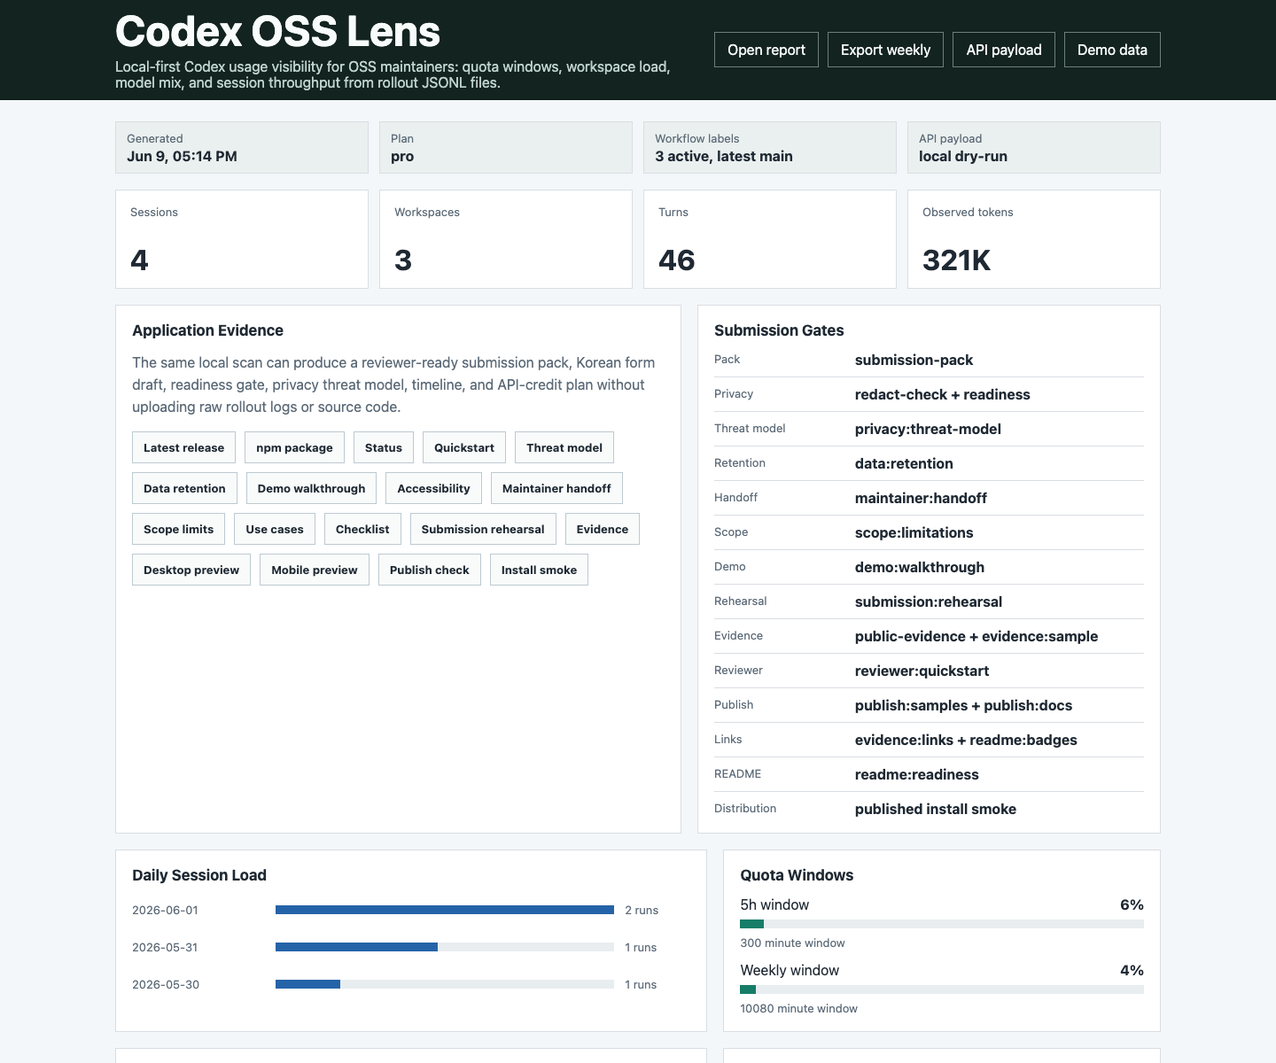
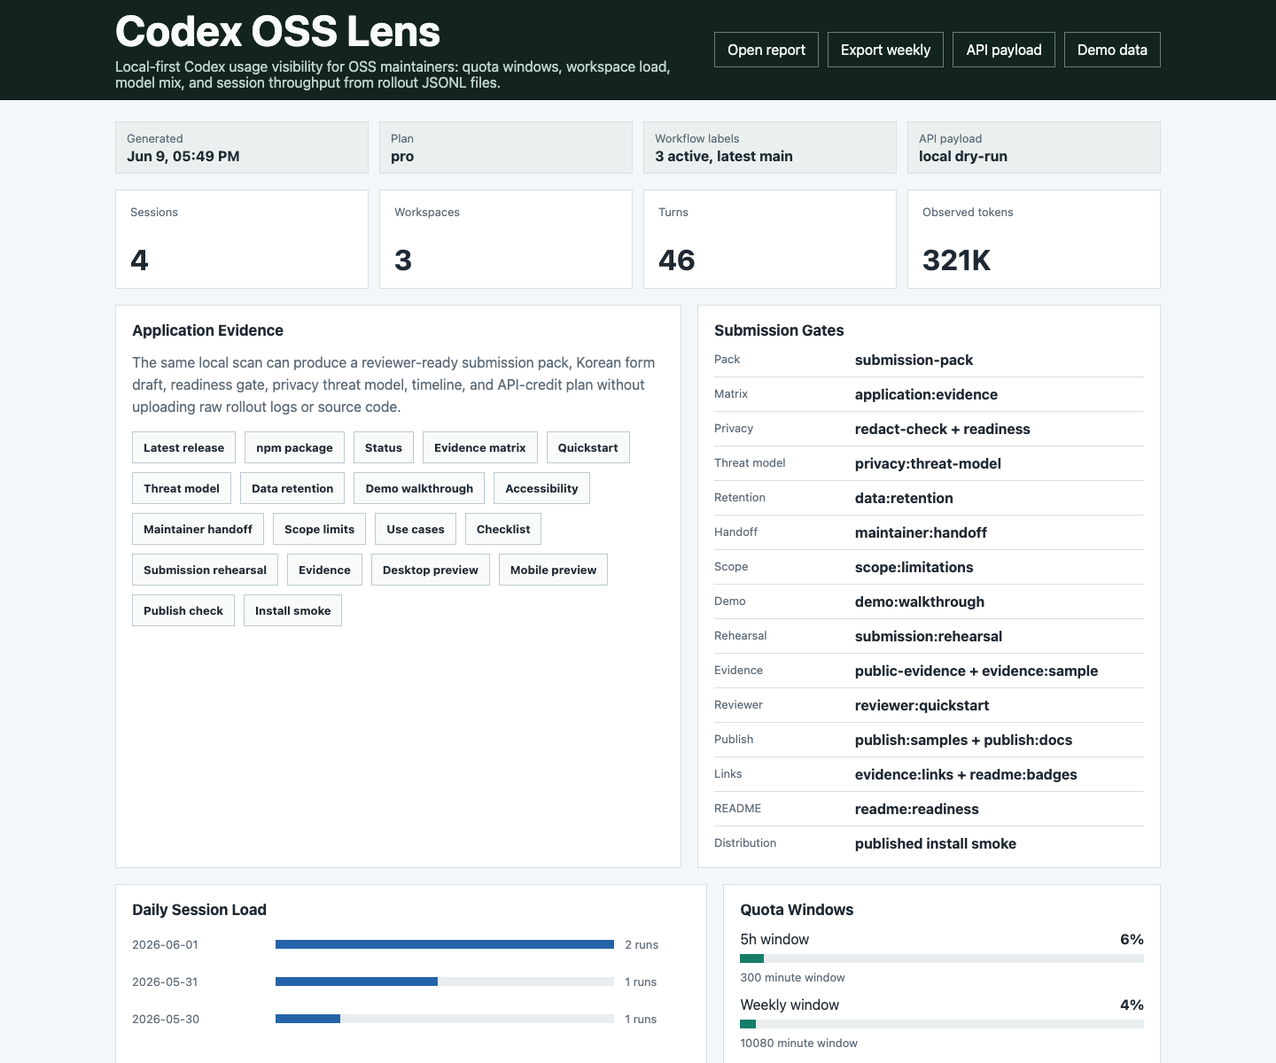
Make application evidence reviewable
Reviewers can inspect individual readiness pages, but the application still benefits from one crosswalk that maps likely reviewer questions to public proof, local gates, and known boundaries. This change adds that evidence matrix and makes it first-class generated evidence, dashboard navigation, and CI-gated application material.

Constraint: The project should present reviewer evidence without overstating adoption or hiding manual account-owner boundaries.
Constraint: Local 1Password SSH signing agent remains unreliable, so this automation commit is unsigned.
Rejected: Keep the crosswalk only in application-status.md | a dedicated matrix is easier to cite and keeps status rows from becoming the full application narrative.
Confidence: high
Scope-risk: moderate
Directive: Keep docs/application-evidence-matrix.md, public evidence links, dashboard evidence links, and application:evidence aligned whenever reviewer-facing claims or submission gates change.
Tested: npm run application:evidence && npm run dashboard:readiness && npm run evidence:sample && npm run form-draft:sample && npm run final-copy:check && npm run application:status && npm run reviewer:quickstart && npm run publish:docs && npm run readme:readiness && npm run ci:readiness && npm test && git diff --check
[…]

diff --git a/src/cli.js b/src/cli.js
@@ -180,6 +180,7 @@ async function main() {
         npmPackage: options.npmPackage,
         roadmapUrl: options.roadmapUrl,
         applicationStatusUrl: options.applicationStatusUrl,
+        applicationEvidenceMatrixUrl: options.applicationEvidenceMatrixUrl,
         reviewerQuickstartUrl: options.reviewerQuickstartUrl,
         releaseProvenanceUrl: options.releaseProvenanceUrl,
         adoptionPlanUrl: options.adoptionPlanUrl,
@@ -278,6 +279,7 @@ function parseArgs(args) {
     else if (arg === "--release-url") options.releaseUrl = args[++i];
     else if (arg === "--roadmap-url") options.roadmapUrl = args[++i];
     else if (arg === "--application-status-url") options.applicationStatusUrl = args[++i];
+    else if (arg === "--application-evidence-matrix-url") options.applicationEvidenceMatrixUrl = args[++i];
     else if (arg === "--reviewer-quickstart-url") options.reviewerQuickstartUrl = args[++i];
     else if (arg === "--release-provenance-url") options.releaseProvenanceUrl = args[++i];
     else if (arg === "--adoption-plan-url") options.adoptionPlanUrl = args[++i];
@@ -397,11 +399,11 @@ Usage:
   codex-oss-lens scorecard --manifest manifest.json [--readiness readiness.json] [--api-plan api-plan.json] [--timeline timeline.json] [--out scorecard.json] [--markdown scorecard.md]
   codex-oss-lens evidence-index --manifest manifest.json [--readiness readiness.json] [--api-plan api-plan.json] [--timeline timeline.json] [--scorecard scorecard.json] [--form-draft form-draft.json] [--out evidence-index.json] [--markdown evidence-index.md] [--html evidence-index.html]
   codex-oss-lens submission-pack [--codex-home ~/.codex] [--repo owner/name] [--out-dir codex-submission-pack] [--demo]
-  codex-oss-lens form-draft --manifest manifest.json [--readiness readiness.json] [--api-plan api-plan.json] [--scorecard scorecard.json] [--repo url] [--release-url url] [--npm-package url] [--roadmap-url url] [--application-status-url url] [--reviewer-quickstart-url url] [--release-provenance-url url] [--adoption-plan-url url] [--maintenance-policy-url url] [--maintainer-handoff-url url] [--scope-limitations-url url] [--privacy-threat-model-url url] [--data-retention-url url] [--demo-walkthrough-url url] [--accessibility-url url] [--api-workflow-url url] [--use-cases-url url] [--final-checklist-url url] [--submission-rehearsal-url url] [--final-copy-url url] [--form-draft-sample-url url] [--public-evidence-sample-url url] [--dashboard-preview-url url] [--mobile-dashboard-preview-url url] [--publish-check-sample-url url] [--install-smoke-sample-url url] [--node-ci-url url] [--published-smoke-url url] [--out form-draft.json] [--markdown form-draft.md]
+  codex-oss-lens form-draft --manifest manifest.json [--readiness readiness.json] [--api-plan api-plan.json] [--scorecard scorecard.json] [--repo url] [--release-url url] [--npm-package url] [--roadmap-url url] [--application-status-url url] [--application-evidence-matrix-url url] [--reviewer-quickstart-url url] [--release-provenance-url url] [--adoption-plan-url url] [--maintenance-policy-url url] [--maintainer-handoff-url url] [--scope-limitations-url url] [--privacy-threat-model-url url] [--data-retention-url url] [--demo-walkthrough-url url] [--accessibility-url url] [--api-workflow-url url] [--use-cases-url url] [--final-checklist-url url] [--submission-rehearsal-url url] [--final-copy-url url] [--form-draft-sample-url url] [--public-evidence-sample-url url] [--dashboard-preview-url url] [--mobile-dashboard-preview-url url] [--publish-check-sample-url url] [--install-smoke-sample-url url] [--node-ci-url url] [--published-smoke-url url] [--out form-draft.json] [--markdown form-draft.md]
   codex-oss-lens pack-validate <submission-pack-dir> [--min-score 75] [--out pack-validation.json] [--markdown pack-validation.md]
   codex-oss-lens publish-check [--package-json package.json] [--out publish-check.json] [--markdown publish-check.md]
   codex-oss-lens install-smoke [--package codex-oss-lens] [--version latest] [--bin codex-oss-lens] [--out install-smoke.json] [--markdown install-smoke.md]
-  codex-oss-lens public-evidence [--repo url] [--release-url url] [--npm-package url] [--roadmap-url url] [--application-status-url url] [--reviewer-quickstart-url url] [--release-provenance-url url] [--adoption-plan-url url] [--maintenance-policy-url url] [--maintainer-handoff-url url] [--scope-limitations-url url] [--privacy-threat-model-url url] [--data-retention-url url] [--demo-walkthrough-url url] [--accessibility-url url] [--api-workflow-url url] [--use-cases-url url] [--final-checklist-url url] [--submission-rehearsal-url url] [--final-copy-url url] [--form-draft-sample-url url] [--public-evidence-sample-url url] [--dashboard-preview-url url] [--mobile-dashboard-preview-url url] [--publish-check-sample-url url] [--install-smoke-sample-url url] [--node-ci-url url] [--published-smoke-url url] [--out public-evidence.json] [--markdown public-evidence.md]
+  codex-oss-lens public-evidence [--repo url] [--release-url url] [--npm-package url] [--roadmap-url url] [--application-status-url url] [--application-evidence-matrix-url url] [--reviewer-quickstart-url url] [--release-provenance-url url] [--adoption-plan-url url] [--maintenance-policy-url url] [--maintainer-handoff-url url] [--scope-limitations-url url] [--privacy-threat-model-url url] [--data-retention-url url] [--demo-walkthrough-url url] [--accessibility-url url] [--api-workflow-url url] [--use-cases-url url] [--final-checklist-url url] [--submission-rehearsal-url url] [--final-copy-url url] [--form-draft-sample-url url] [--public-evidence-sample-url url] [--dashboard-preview-url url] [--mobile-dashboard-preview-url url] [--publish-check-sample-url url] [--install-smoke-sample-url url] [--node-ci-url url] [--published-smoke-url url] [--out public-evidence.json] [--markdown public-evidence.md]
   codex-oss-lens serve [--codex-home ~/.codex] [--port 5057] [--demo]
   codex-oss-lens demo [--out report.json]
 

diff --git a/scripts/check-application-evidence-matrix.js b/scripts/check-application-evidence-matrix.js
@@ -1,0 +1,54 @@
+#!/usr/bin/env node
+import { promises as fs } from "node:fs";
+
+const files = {
+  matrix: await fs.readFile("docs/application-evidence-matrix.md", "utf8"),
+  status: await fs.readFile("docs/application-status.md", "utf8"),
+  reviewer: await fs.readFile("docs/reviewer-quickstart.md", "utf8"),
+  checklist: await fs.readFile("docs/final-submission-checklist.md", "utf8"),
+  readme: await fs.readFile("README.md", "utf8"),
+  dashboard: await fs.readFile("public/index.html", "utf8"),
+  workflow: await fs.readFile(".github/workflows/test.yml", "utf8"),
+  publishing: await fs.readFile("docs/npm-publishing.md", "utf8"),
+  publishChecklist: await fs.readFile("application/publish-checklist.md", "utf8"),
+};
+let failures = 0;
+
+requireText("matrix", "# Application Evidence Matrix", "title");
+requireText("matrix", "Is the project public and installable?", "installable question");
+requireText("matrix", "Is the tool relevant to Codex users?", "Codex relevance question");
+requireText("matrix", "Is private Codex data protected?", "privacy question");
+requireText("matrix", "Can reviewers reproduce the evidence?", "reproducibility question");
+requireText("matrix", "Is the project maintainable after submission?", "maintainability question");
+requireText("matrix", "Are limits and manual gates clear?", "manual-gate question");
+requireText("matrix", "npm run application:evidence", "self gate command");
+requireText("matrix", "codex-oss-lens@latest", "source-vs-published boundary");
+requireText("status", "Application evidence matrix | Ready", "application status row");
+requireText("status", "npm run application:evidence", "application status command");
+requireText("reviewer", "docs/application-evidence-matrix.md", "reviewer matrix link");
+requireText("checklist", "docs/application-evidence-matrix.md", "final checklist matrix link");
+requireText("checklist", "npm run application:evidence", "final checklist gate");
+requireText("readme", "docs/application-evidence-matrix.md", "README matrix link");
+requireText("readme", "npm run application:evidence", "README matrix gate");
+requireText("dashboard", "docs/application-evidence-matrix.md", "dashboard matrix link");
+requireText("dashboard", "Evidence matrix", "dashboard matrix label");
+requireText("dashboard", "application:evidence", "dashboard matrix gate");
+requireText("workflow", "npm run application:evidence", "CI matrix gate");
+requireText("publishing", "npm run application:evidence", "publishing docs matrix gate");
+requireText("publishChecklist", "application:evidence", "publish checklist matrix gate");
+
+if (failures) {
+  console.error(`Application evidence matrix check failed for ${failures} requirement(s).`);
+  process.exit(1);
+}
+
+console.log("pass applicationEvidenceMatrix");
+
+function requireText(fileKey, needle, label) {
+  if (files[fileKey].includes(needle)) {
+    console.log(`pass ${label}`);
+    return;
+  }
+  console.error(`fail missing ${label}: ${needle}`);
+  failures += 1;
+}

diff --git a/test/public-evidence.test.js b/test/public-evidence.test.js
@@ -13,6 +13,7 @@ test("builds public evidence with required links and manual fields", () => {
   assert.equal(evidence.publicLinks.repo, "https://github.com/dbunk903/codex-oss-lens");
   assert.equal(evidence.publicLinks.npmPackage, "https://www.npmjs.com/package/codex-oss-lens");
   assert.match(evidence.publicLinks.applicationStatusUrl, /docs\/application-status\.md$/);
+  assert.match(evidence.publicLinks.applicationEvidenceMatrixUrl, /docs\/application-evidence-matrix\.md$/);
   assert.match(evidence.publicLinks.reviewerQuickstartUrl, /docs\/reviewer-quickstart\.md$/);
   assert.match(evidence.publicLinks.releaseProvenanceUrl, /docs\/release-provenance\.md$/);
   assert.match(evidence.publicLinks.adoptionPlanUrl, /docs\/adoption-plan\.md$/);
@@ -26,6 +27,7 @@ test("builds public evidence with required links and manual fields", () => {
   assert.match(evidence.publicLinks.accessibilityUrl, /docs\/accessibility\.md$/);
   assert.ok(evidence.proofPoints.some((item) => item.id === "publishedSmoke"));
   assert.ok(evidence.proofPoints.some((item) => item.id === "applicationStatus"));
+  assert.ok(evidence.proofPoints.some((item) => item.id === "applicationEvidenceMatrix"));
   assert.ok(evidence.proofPoints.some((item) => item.id === "reviewerQuickstart"));
   assert.ok(evidence.proofPoints.some((item) => item.id === "releaseProvenance"));
   assert.ok(evidence.proofPoints.some((item) => item.id === "adoptionPlan"));
@@ -77,6 +79,8 @@ test("CLI accepts reviewer link overrides for public evidence", async () => {
     "https://github.com/example/project/blob/main/ROADMAP.md",
     "--application-status-url",
     "https://github.com/example/project/blob/main/docs/application-status.md",
+    "--application-evidence-matrix-url",
+    "https://github.com/example/project/blob/main/docs/application-evidence-matrix.md",
     "--reviewer-quickstart-url",
     "https://github.com/example/project/blob/main/docs/reviewer-quickstart.md",
     "--release-provenance-url",
@@ -129,6 +133,7 @@ test("CLI accepts reviewer link overrides for public evidence", async () => {
   assert.equal(evidence.publicLinks.repo, "https://github.com/example/project");
   assert.equal(evidence.publicLinks.releaseUrl, "https://github.com/example/project/releases/tag/v1.2.3");
   assert.equal(evidence.publicLinks.applicationStatusUrl, "https://github.com/example/project/blob/main/docs/application-status.md");
+  assert.equal(evidence.publicLinks.applicationEvidenceMatrixUrl, "https://github.com/example/project/blob/main/docs/application-evidence-matrix.md");
   assert.equal(evidence.publicLinks.reviewerQuickstartUrl, "https://github.com/example/project/blob/main/docs/reviewer-quickstart.md");
   assert.equal(evidence.publicLinks.releaseProvenanceUrl, "https://github.com/example/project/blob/main/docs/release-provenance.md");
   assert.equal(evidence.publicLinks.adoptionPlanUrl, "https://github.com/example/project/blob/main/docs/adoption-plan.md");

diff --git a/src/public-evidence.js b/src/public-evidence.js
@@ -4,6 +4,7 @@ const DEFAULTS = {
   npmPackage: "https://www.npmjs.com/package/codex-oss-lens",
   roadmapUrl: "https://github.com/dbunk903/codex-oss-lens/blob/main/ROADMAP.md",
   applicationStatusUrl: "https://github.com/dbunk903/codex-oss-lens/blob/main/docs/application-status.md",
+  applicationEvidenceMatrixUrl: "https://github.com/dbunk903/codex-oss-lens/blob/main/docs/application-evidence-matrix.md",
   reviewerQuickstartUrl: "https://github.com/dbunk903/codex-oss-lens/blob/main/docs/reviewer-quickstart.md",
   releaseProvenanceUrl: "https://github.com/dbunk903/codex-oss-lens/blob/main/docs/release-provenance.md",
   adoptionPlanUrl: "https://github.com/dbunk903/codex-oss-lens/blob/main/docs/adoption-plan.md",
@@ -52,6 +53,7 @@ export function buildPublicEvidence(options = {}) {
       proof("publishedSmoke", "npm latest install smoke runs in GitHub Actions.", links.publishedSmokeUrl),
       proof("roadmap", "Roadmap documents future maintainer workflow work.", links.roadmapUrl),
       proof("applicationStatus", "Application status captures ready, source-only, and manual submit gates.", links.applicationStatusUrl),
+      proof("applicationEvidenceMatrix", "Application evidence matrix maps reviewer questions to public proof and local gates.", links.applicationEvidenceMatrixUrl),
       proof("reviewerQuickstart", "Reviewer quickstart gives public-only verification steps.", links.reviewerQuickstartUrl),
       proof("releaseProvenance", "Release provenance ties GitHub release, npm package, CI, and privacy gates together.", links.releaseProvenanceUrl),
       proof("adoptionPlan", "Adoption plan documents public validation without asking for private Codex content.", links.adoptionPlanUrl),
@@ -92,6 +94,7 @@ function compactLinks(options) {
     ...(options.npmPackage ? { npmPackage: options.npmPackage } : {}),
     ...(options.roadmapUrl ? { roadmapUrl: options.roadmapUrl } : {}),
     ...(options.applicationStatusUrl ? { applicationStatusUrl: options.applicationStatusUrl } : {}),
+    ...(options.applicationEvidenceMatrixUrl ? { applicationEvidenceMatrixUrl: options.applicationEvidenceMatrixUrl } : {}),
     ...(options.reviewerQuickstartUrl ? { reviewerQuickstartUrl: options.reviewerQuickstartUrl } : {}),
     ...(options.releaseProvenanceUrl ? { releaseProvenanceUrl: options.releaseProvenanceUrl } : {}),
     ...(options.adoptionPlanUrl ? { adoptionPlanUrl: options.adoptionPlanUrl } : {}),

diff --git a/test/form-draft.test.js b/test/form-draft.test.js
@@ -22,6 +22,7 @@ test("builds copy-ready Korean OSS support form draft", () => {
       releaseUrl: "https://github.com/dbunk903/codex-oss-lens/releases/tag/v1.6.1",
       npmPackage: "https://www.npmjs.com/package/codex-oss-lens",
       applicationStatusUrl: "https://github.com/dbunk903/codex-oss-lens/blob/main/docs/application-status.md",
+      applicationEvidenceMatrixUrl: "https://github.com/dbunk903/codex-oss-lens/blob/main/docs/application-evidence-matrix.md",
       adoptionPlanUrl: "https://github.com/dbunk903/codex-oss-lens/blob/main/docs/adoption-plan.md",
       maintenancePolicyUrl: "https://github.com/dbunk903/codex-oss-lens/blob/main/docs/maintenance-policy.md",
       maintainerHandoffUrl: "https://github.com/dbunk903/codex-oss-lens/blob/main/docs/maintainer-handoff.md",
@@ -38,6 +39,7 @@ test("builds copy-ready Korean OSS support form draft", () => {
   assert.equal(draft.publicLinks.repository, "https://github.com/dbunk903/codex-oss-lens");
   assert.equal(draft.publicLinks.npmPackage, "https://www.npmjs.com/package/codex-oss-lens");
   assert.equal(draft.publicLinks.applicationStatus, "https://github.com/dbunk903/codex-oss-lens/blob/main/docs/application-status.md");
+  assert.equal(draft.publicLinks.applicationEvidenceMatrix, "https://github.com/dbunk903/codex-oss-lens/blob/main/docs/application-evidence-matrix.md");
   assert.equal(draft.publicLinks.adoptionPlan, "https://github.com/dbunk903/codex-oss-lens/blob/main/docs/adoption-plan.md");
   assert.equal(draft.publicLinks.maintenancePolicy, "https://github.com/dbunk903/codex-oss-lens/blob/main/docs/maintenance-policy.md");
   assert.equal(draft.publicLinks.maintainerHandoff, "https://github.com/dbunk903/codex-oss-lens/blob/main/docs/maintainer-handoff.md");

diff --git a/public/index.html b/public/index.html
@@ -435,6 +435,7 @@
               <a class="link-button" href="https://github.com/dbunk903/codex-oss-lens/releases/tag/v1.6.1">Latest release</a>
               <a class="link-button" href="https://www.npmjs.com/package/codex-oss-lens">npm package</a>
               <a class="link-button" href="https://github.com/dbunk903/codex-oss-lens/blob/main/docs/application-status.md">Status</a>
+              <a class="link-button" href="https://github.com/dbunk903/codex-oss-lens/blob/main/docs/application-evidence-matrix.md">Evidence matrix</a>
               <a class="link-button" href="https://github.com/dbunk903/codex-oss-lens/blob/main/docs/reviewer-quickstart.md">Quickstart</a>
               <a class="link-button" href="https://github.com/dbunk903/codex-oss-lens/blob/main/docs/privacy-threat-model.md">Threat model</a>
               <a class="link-button" href="https://github.com/dbunk903/codex-oss-lens/blob/main/docs/data-retention.md">Data retention</a>
@@ -456,6 +457,7 @@
             <h2>Submission Gates</h2>
             <ul class="evidence-list">
               <li><span class="label">Pack</span><strong>submission-pack</strong></li>
+              <li><span class="label">Matrix</span><strong>application:evidence</strong></li>
               <li><span class="label">Privacy</span><strong>redact-check + readiness</strong></li>
               <li><span class="label">Threat model</span><strong>privacy:threat-model</strong></li>
               <li><span class="label">Retention</span><strong>data:retention</strong></li>

diff --git a/scripts/check-application-status.js b/scripts/check-application-status.js
@@ -17,6 +17,7 @@ requireText("# Application Status", "title");
 requireText(`codex-oss-lens@${packageJson.version}`, "current package version");
 requireText("npm run submission:check", "submit-time gate command");
 requireText("npm run evidence:sample", "public evidence sample gate command");
+requireText("npm run application:evidence", "application evidence matrix gate command");
 requireText("npm run reviewer:quickstart", "reviewer quickstart gate command");
 requireText("npm run form-draft:sample", "form draft sample gate command");
 requireText("npm run publish:samples", "publish samples gate command");
@@ -44,6 +45,7 @@ requireText("npm run readme:badges", "README badge gate command");
 requireText("npm run readme:readiness", "README readiness gate command");
 requireText("package metadata, license/support/conduct docs, and GitHub templates/workflows", "public redaction scope");
 requireText("Public evidence sample | Ready", "public evidence sample row");
+requireText("Application evidence matrix | Ready", "application evidence matrix row");
 requireText("Reviewer quickstart | Ready", "reviewer quickstart row");
 requireText("full reviewer link map", "form draft full link map");
 requireText("Form draft sample | Ready", "form draft sample row");

diff --git a/scripts/check-dashboard-readiness.js b/scripts/check-dashboard-readiness.js
@@ -12,6 +12,9 @@ requireText("submission-pack", "submission pack gate");
 requireText("redact-check + readiness", "privacy readiness gate");
 requireText("privacy threat model", "privacy threat model positioning");
 requireText("privacy:threat-model", "privacy threat model gate");
+requireText("docs/application-evidence-matrix.md", "dashboard evidence matrix link");
+requireText("Evidence matrix", "dashboard evidence matrix label");
+requireText("application:evidence", "dashboard evidence matrix gate");
 requireText("docs/accessibility.md", "dashboard accessibility link");
 requireText("Accessibility", "dashboard accessibility label");
 requireText("docs/data-retention.md", "dashboard data retention link");
@@ -42,6 +45,7 @@ for (const [label, url] of Object.entries({
   releaseUrl: evidence.publicLinks.releaseUrl,
   npmPackage: evidence.publicLinks.npmPackage,
   applicationStatusUrl: evidence.publicLinks.applicationStatusUrl,
+  applicationEvidenceMatrixUrl: evidence.publicLinks.applicationEvidenceMatrixUrl,
   reviewerQuickstartUrl: evidence.publicLinks.reviewerQuickstartUrl,
   privacyThreatModelUrl: evidence.publicLinks.privacyThreatModelUrl,
   maintainerHandoffUrl: evidence.publicLinks.maintainerHandoffUrl,

diff --git a/scripts/check-publishing-docs.js b/scripts/check-publishing-docs.js
@@ -7,6 +7,7 @@ const checklist = await fs.readFile("application/publish-checklist.md", "utf8");
 let failures = 0;
 
 requirePublishingText("npm run submission:check", "submission gate");
+requirePublishingText("npm run application:evidence", "application evidence matrix gate");
 requirePublishingText("npm run reviewer:quickstart", "reviewer quickstart gate");
 requirePublishingText("npm run publish:samples", "publish samples gate");
 requirePublishingText("npm run contrib:readiness", "contribution readiness gate");
@@ -47,6 +48,7 @@ requireChecklistText("account owner has reviewed the terms", "account-owner term
 requireChecklistText("Published npm usage", "README npm usage evidence");
 requireChecklistText("Scheduled/manual GitHub Actions", "published smoke CI evidence");
 requireChecklistText("submission:check", "submission gate evidence");
+requireChecklistText("application:evidence", "application evidence matrix evidence");
 requireChecklistText("publish:samples", "publish samples evidence");
 requireChecklistText("support:readiness", "support readiness evidence");
 requireChecklistText("conduct:readiness", "conduct readiness evidence");

diff --git a/scripts/check-readme-readiness.js b/scripts/check-readme-readiness.js
@@ -7,6 +7,7 @@ const evidence = buildPublicEvidence();
 let failures = 0;
 
 requireText("npm run submission:check", "one-command submission gate");
+requireText("npm run application:evidence", "application evidence matrix gate");
 requireText("npm run reviewer:quickstart", "reviewer quickstart gate");
 requireText("npm run form-draft:sample", "form draft sample gate");
 requireText("npm run publish:samples", "publish samples gate");
@@ -32,6 +33,7 @@ requireText("npm run evidence:sample", "public evidence sample gate");
 requireText("npm run evidence:links", "public link health gate");
 requireText("npm run readme:badges", "README badge gate");
 requireText("docs/application-status.md", "application status link");
+requireText("docs/application-evidence-matrix.md", "application evidence matrix link");
 requireText("docs/reviewer-quickstart.md", "reviewer quickstart link");
 requireText("docs/final-submission-checklist.md", "final checklist link");
 requireText("docs/release-provenance.md", "release provenance link");

diff --git a/src/form-draft.js b/src/form-draft.js
@@ -16,6 +16,7 @@ export function buildFormDraft({ manifest, readiness, apiPlan, scorecard, links 
       npmPackage: links.npmPackage || "",
       roadmap: links.roadmapUrl || "",
       applicationStatus: links.applicationStatusUrl || "",
+      applicationEvidenceMatrix: links.applicationEvidenceMatrixUrl || "",
       reviewerQuickstart: links.reviewerQuickstartUrl || "",
       releaseProvenance: links.releaseProvenanceUrl || "",
       adoptionPlan: links.adoptionPlanUrl || "",
@@ -115,6 +116,7 @@ const PUBLIC_LINK_LABELS = {
   npmPackage: "npm package",
   roadmap: "Roadmap",
   applicationStatus: "Application status",
+  applicationEvidenceMatrix: "Application evidence matrix",
   reviewerQuickstart: "Reviewer quickstart",
   releaseProvenance: "Release provenance",
   adoptionPlan: "Adoption plan",

diff --git a/scripts/check-ci-readiness.js b/scripts/check-ci-readiness.js
@@ -16,6 +16,7 @@ requireText("evidence.status", "public evidence readiness assertion");
 requireText("npm run final-copy:check", "final copy check");
 requireText("npm run submission:versions", "submission version check");
 requireText("npm run application:status", "application status check");
+requireText("npm run application:evidence", "application evidence matrix check");
 requireText("npm run reviewer:quickstart", "reviewer quickstart check");
 requireText("npm run form-draft:sample", "form draft sample check");
 requireText("npm run publish:samples", "publish samples check");
